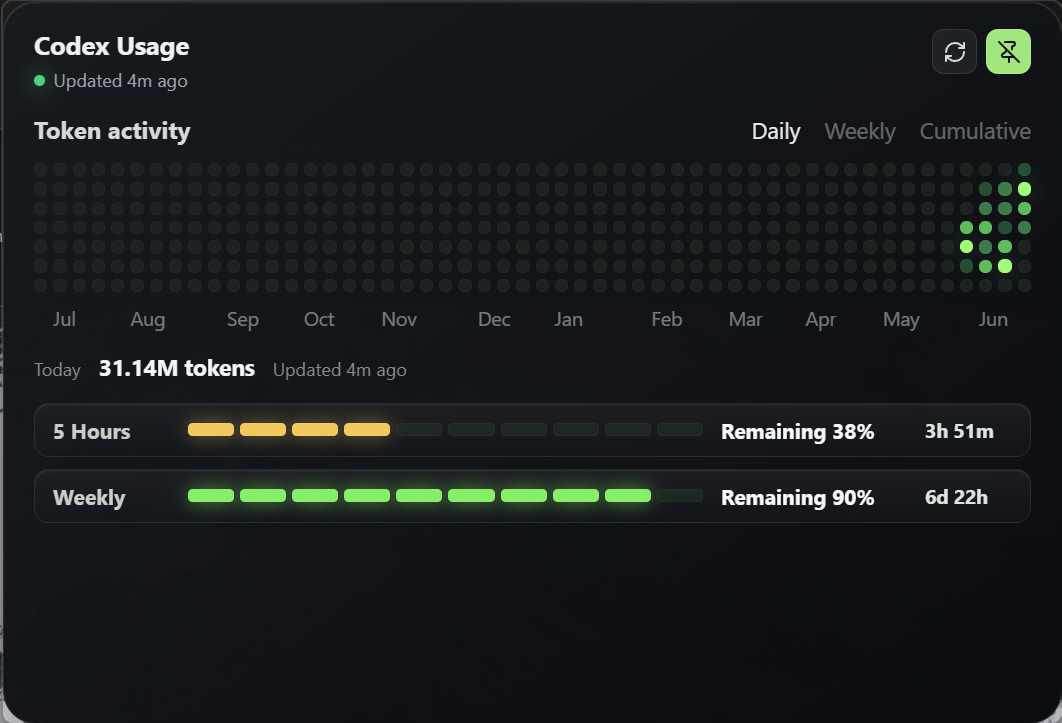
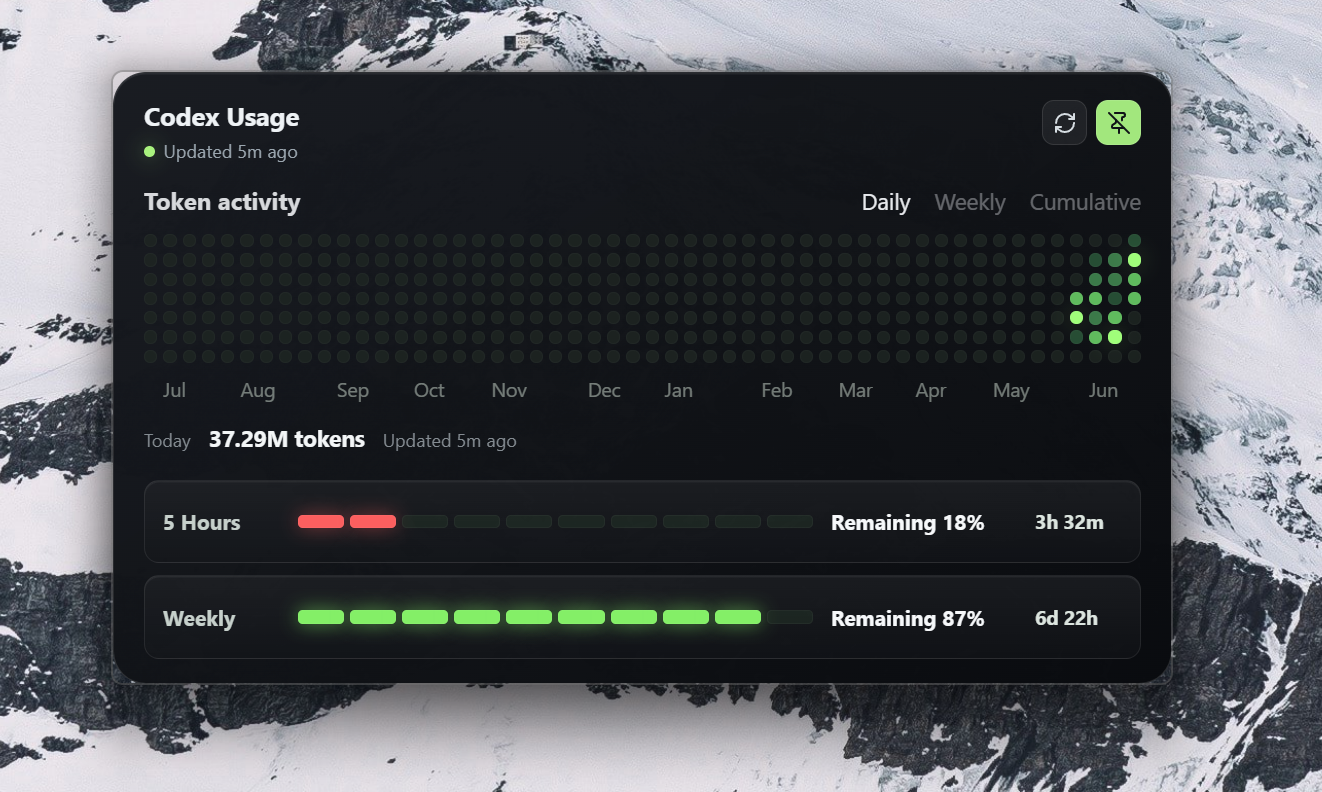
Fix refresh freshness and update screenshot

diff --git a/src/App.tsx b/src/App.tsx
@@ -29,7 +29,7 @@ export default function App() {
     void loadState();
     const id = window.setInterval(() => {
       void loadState();
-    }, 30_000);
+    }, 60_000);
 
     return () => window.clearInterval(id);
   }, [loadState]);

diff --git a/src-tauri/src/db.rs b/src-tauri/src/db.rs
@@ -287,6 +287,10 @@ impl AppDb {
         Ok(())
     }
 
+    pub fn record_scan_completed(&self, scanned_at: DateTime<Utc>) -> Result<(), rusqlite::Error> {
+        self.set_config("last_scan_at", &scanned_at.to_rfc3339())
+    }
+
     pub fn dashboard_state(
         &self,
         settings: &Settings,
@@ -296,7 +300,9 @@ impl AppDb {
         let today = self.today_usage(&today_key)?;
         let heatmap_days = self.heatmap_days(settings.heatmap_days)?;
         let latest_limit = self.latest_limit_snapshot()?;
-        let updated_at = latest_limit.as_ref().map(|snapshot| snapshot.captured_at.clone());
+        let updated_at = self
+            .get_config("last_scan_at")?
+            .or_else(|| latest_limit.as_ref().map(|snapshot| snapshot.captured_at.clone()));
         let freshness = freshness(updated_at.as_deref(), settings.stale_after_minutes);
 
         let mut warnings = Vec::new();
@@ -536,5 +542,28 @@ mod tests {
             db.latest_limit_snapshot().unwrap().unwrap().five_hour_used_percent,
             Some(42.0)
         );
+    }
+
+    #[test]
+    fn dashboard_freshness_uses_last_successful_scan_time() {
+        let db = AppDb::in_memory().unwrap();
+        db.insert_limit_snapshot(&LimitSnapshot {
+            captured_at: "2026-06-17T18:00:00.000Z".to_string(),
+            source_file: "old.jsonl".to_string(),
+            five_hour_used_percent: Some(42.0),
+            five_hour_reset_at: Some(1_781_724_000),
+            weekly_used_percent: Some(68.0),
+            weekly_reset_at: Some(1_782_079_200),
+            plan_type: Some("plus".to_string()),
+            unusual: false,
+        })
+        .unwrap();
+        db.record_scan_completed(Utc::now()).unwrap();
+
+        let settings = db.get_settings("sessions".to_string()).unwrap();
+        let state = db.dashboard_state(&settings, "sessions".to_string()).unwrap();
+
+        assert_eq!(state.freshness.state, "fresh");
+        assert_eq!(state.updated_at, db.get_config("last_scan_at").unwrap());
     }
 }

diff --git a/src-tauri/src/commands.rs b/src-tauri/src/commands.rs
@@ -21,29 +21,22 @@ pub fn get_dashboard_state(state: State<'_, AppState>) -> Result<DashboardState,
 }
 
 #[tauri::command]
-pub fn refresh_now(app: AppHandle, state: State<'_, AppState>) -> Result<DashboardState, String> {
+pub async fn refresh_now(app: AppHandle, state: State<'_, AppState>) -> Result<DashboardState, String> {
     let scanner = Arc::clone(&state.scanner);
     let cache = Arc::clone(&state.cache);
-    let current = get_dashboard_state(state)?;
 
-    tauri::async_runtime::spawn(async move {
-        let next_state = {
-            let Ok(scanner) = scanner.try_lock() else {
-                return;
-            };
-            let _ = scanner.scan_recent();
-            scanner.dashboard_state().ok()
-        };
+    let next_state = tauri::async_runtime::spawn_blocking(move || {
+        let scanner = scanner.lock().map_err(|error| error.to_string())?;
+        scanner.scan_recent()?;
+        scanner.dashboard_state()
+    })
+    .await
+    .map_err(|error| error.to_string())??;
 
-        if let Some(next_state) = next_state {
-            if let Ok(mut cached) = cache.lock() {
-                *cached = Some(next_state.clone());
-            }
-            let _ = app.emit("dashboard-state-updated", next_state);
-        }
-    });
+    *cache.lock().map_err(|error| error.to_string())? = Some(next_state.clone());
+    let _ = app.emit("dashboard-state-updated", next_state.clone());
 
-    Ok(current)
+    Ok(next_state)
 }
 
 #[tauri::command]

diff --git a/src-tauri/src/codex_scanner.rs b/src-tauri/src/codex_scanner.rs
@@ -2,6 +2,7 @@ use crate::db::AppDb;
 use crate::models::{DashboardState, Settings};
 use crate::rate_limit_parser::parse_limit_snapshot;
 use crate::token_parser::parse_token_event;
+use chrono::Utc;
 use std::fs::File;
 use std::io::{BufRead, BufReader};
 use std::path::{Path, PathBuf};
@@ -83,6 +84,10 @@ impl CodexScanner {
                 }
             }
         }
+
+        self.db
+            .record_scan_completed(Utc::now())
+            .map_err(|error| error.to_string())?;
 
         Ok(report)
     }

diff --git a/src-tauri/src/lib.rs b/src-tauri/src/lib.rs
@@ -70,7 +70,7 @@ fn create_tray(app: &tauri::AppHandle<Wry>) -> tauri::Result<()> {
                 let app_handle = app.clone();
                 tauri::async_runtime::spawn(async move {
                     let next_state = {
-                        let Ok(scanner) = scanner.try_lock() else {
+                        let Ok(scanner) = scanner.lock() else {
                             return;
                         };
                         let _ = scanner.scan_recent();

diff --git a/src-tauri/src/watcher.rs b/src-tauri/src/watcher.rs
@@ -10,7 +10,7 @@ pub fn start_polling(
     cache: Arc<Mutex<Option<DashboardState>>>,
 ) {
     tauri::async_runtime::spawn(async move {
-        let mut interval = tokio::time::interval(Duration::from_secs(30));
+        let mut interval = tokio::time::interval(Duration::from_secs(60));
         let mut needs_history_scan = true;
         loop {
             interval.tick().await;

diff --git a/README.md b/README.md
@@ -13,6 +13,7 @@ It does not call the OpenAI API, scrape the Usage Dashboard, or read other AI to
 - 12-month token heatmap from local `token_count` events with daily, weekly, and cumulative views.
 - 5h and weekly usage bars from local `rate_limits` snapshots.
 - Today token total, session count, freshness status, manual refresh, and always-on-top toggle.
+- Automatic local refresh every 60 seconds.
 - Tauri tray menu: Show, Hide, Refresh, Exit.
 
 ## Data Model